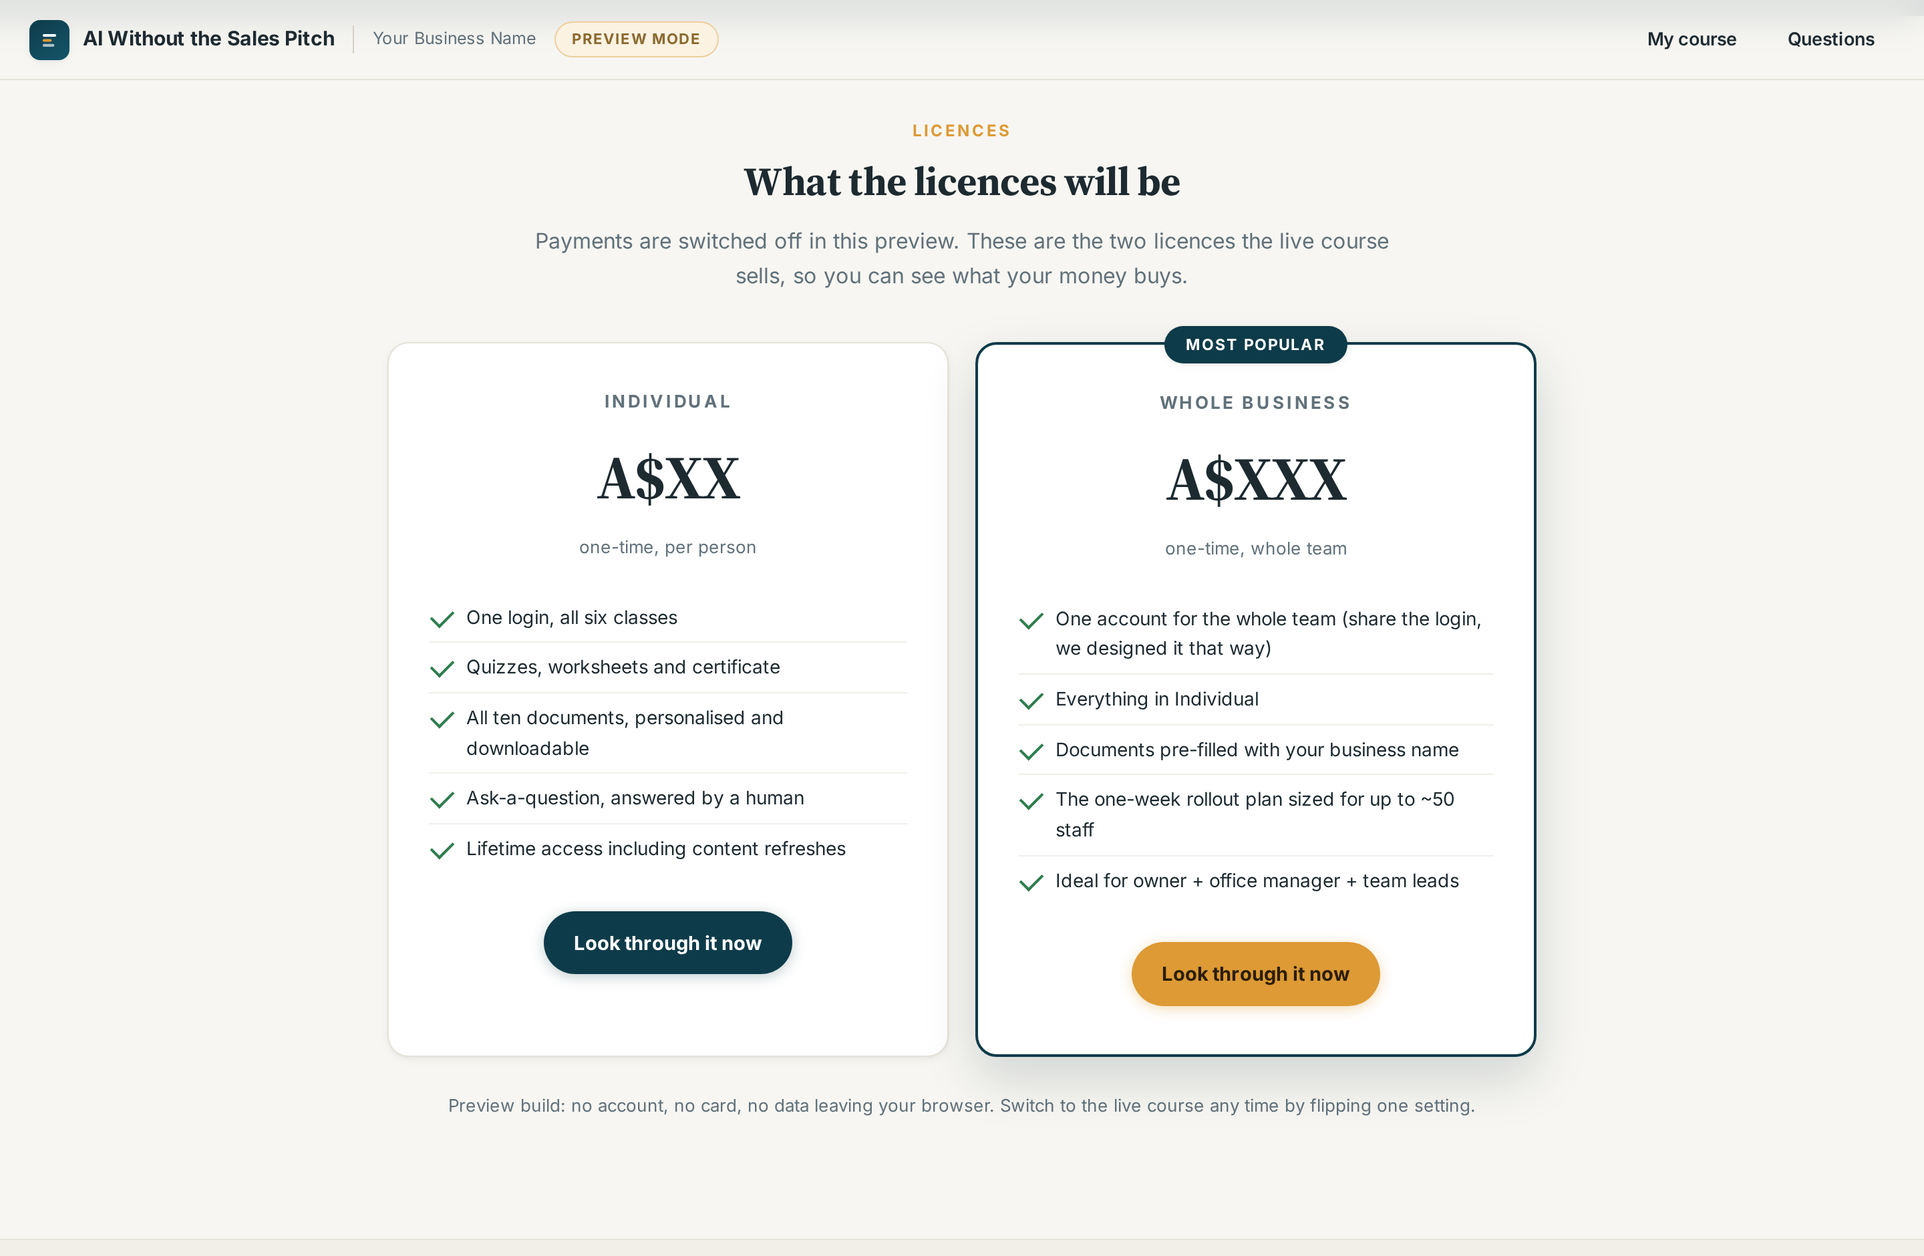
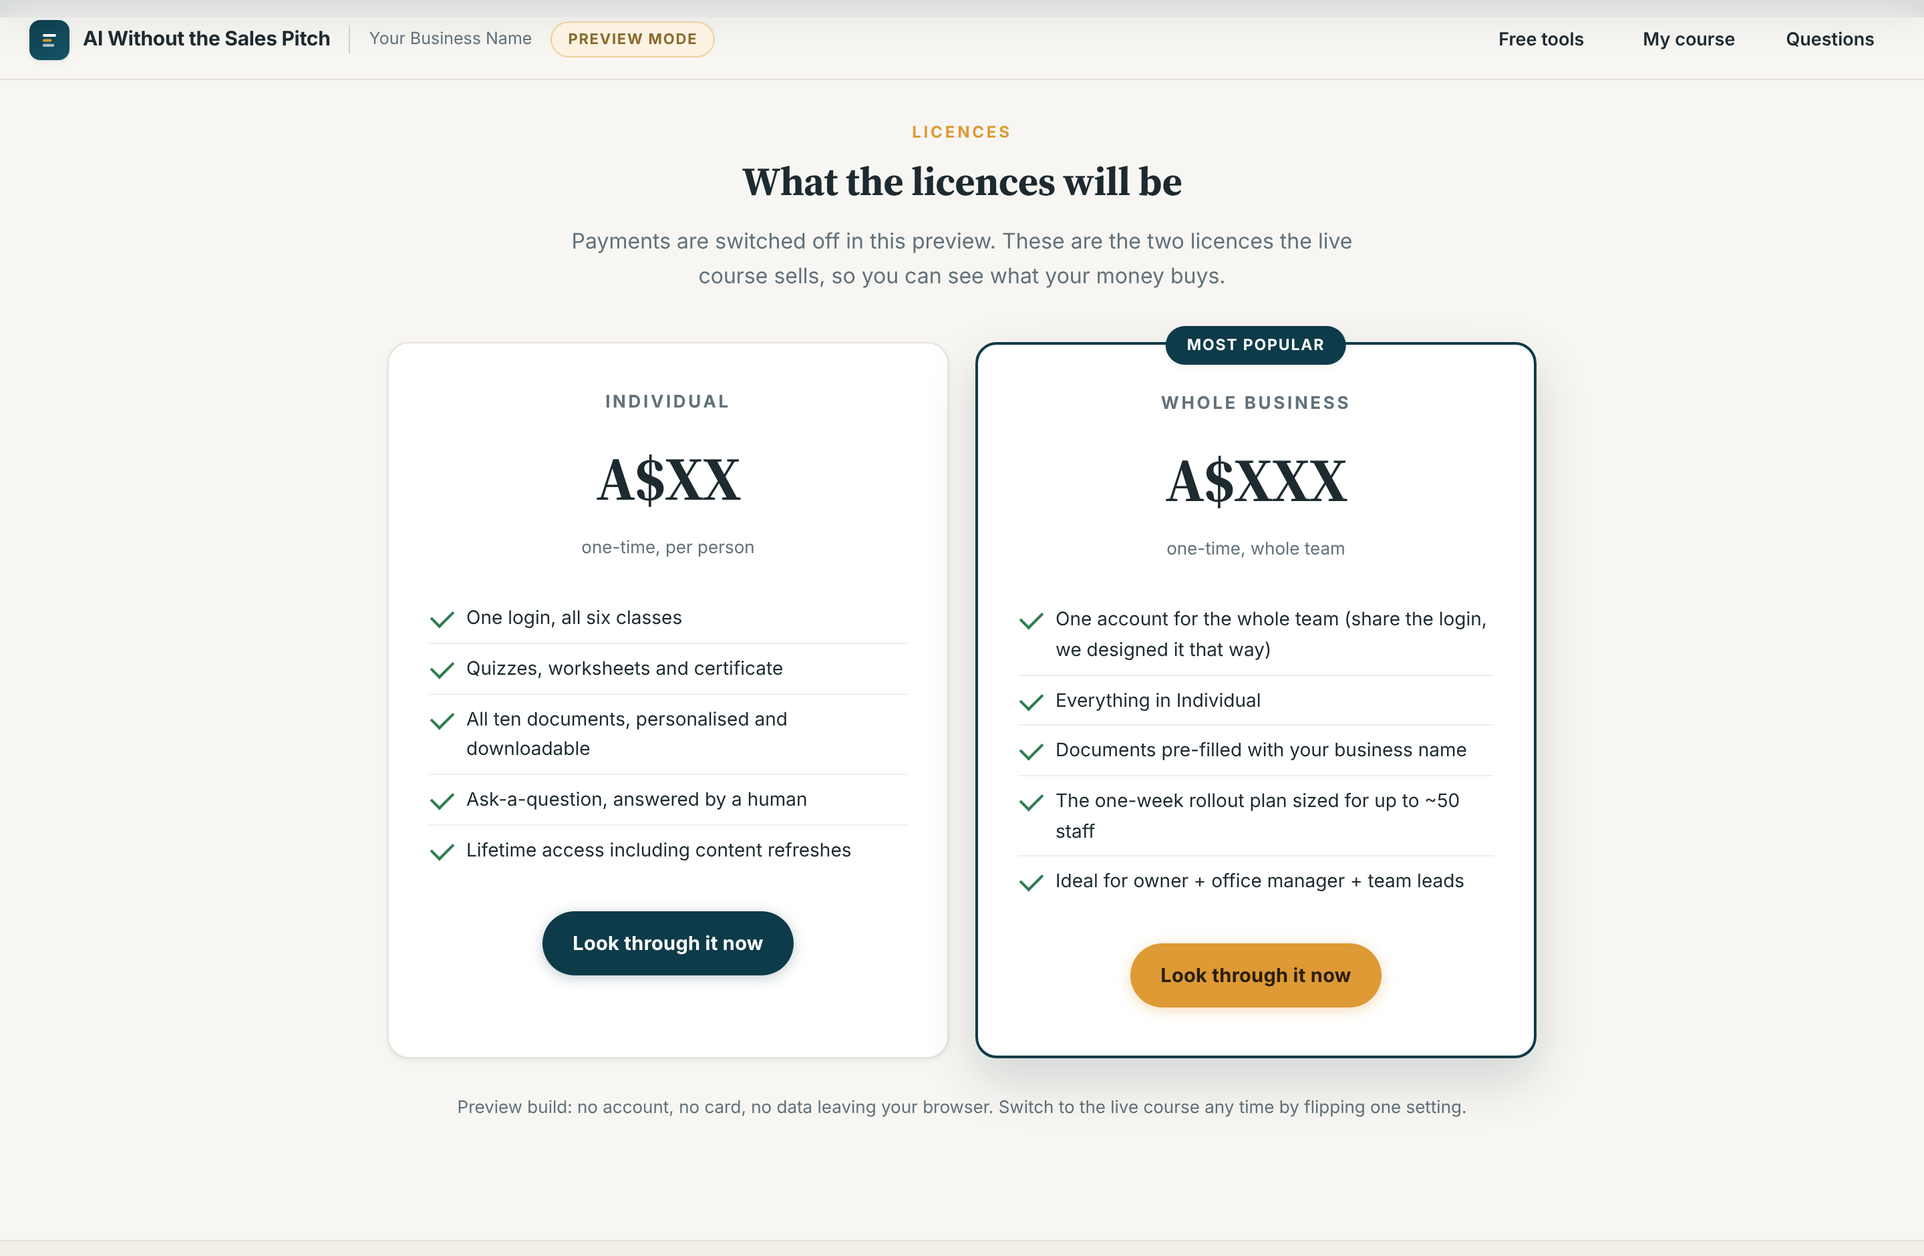
Tools: write-once job keys, docs, previews
- Job status no longer depends on a Blobs update showing up: the runner
  writes tools/jobs/<id>/start and tools/jobs/<id>/result once each, so
  polling sees "done" as soon as it happens (Blobs can take up to 60s to
  propagate an update, but new keys are visible immediately).
- Follower Sorter only links to instagram.com URLs from the export file.
- DEPLOY.md: new section 11 on the Tools section (Netlify Pro for
  background functions, ANTHROPIC_API_KEY, CLAUDE_MODEL, the caps and kill
  switch, costs, what is stored, how to add a tool), updated test steps
  and file map, and the running-cost note corrected.
- README: the Tools section replaces the Bee Free Tools site and the
  Replit BeeSearch app; test and screenshot instructions updated.
- screenshots.cjs adds the tools gallery, Blog Writer and Website Check;
  all previews regenerated.

Claude-Session: https://claude.ai/code/session_01S917DKUpFNSutKc3aFgBkW

diff --git a/course-site/netlify/functions/tool-run-background.js b/course-site/netlify/functions/tool-run-background.js
@@ -1,8 +1,12 @@
 // tool-run-background.js — runs one AI tool job. The "-background" suffix
 // makes Netlify answer the browser with 202 straight away and give this
 // function up to 15 minutes, so long generations never hit the 30-second
-// limit. Progress and the result go to Blobs at tools/jobs/<jobId>, which
-// the browser polls through tool-status.
+// limit. The browser polls tool-status for the outcome.
+//
+// Each job writes two keys, each exactly once: tools/jobs/<id>/start when
+// it begins and tools/jobs/<id>/result when it ends. Blobs makes new keys
+// visible immediately but can take up to 60 seconds to show an update, so
+// never rewriting a key keeps polling prompt.
 //
 // POST { jobId: <uuid v4 from the browser>, tool: "blog-writer" | "shot-prompts" | "leads" | "pitch", input: {...} }
 import { store, parseBody } from "./utils/helpers.js";
@@ -11,7 +15,7 @@ import { validateWith } from "./utils/ai/validate.js";
 import { aiEnabled, claimRun, releaseRun, visitorId, pruneUsage } from "./utils/limits.js";
 import { aiConfigured, friendlyError } from "./utils/claude.js";
 
-const UUID_RE =/^[0-9a-f]{8}-[0-9a-f]{4}-4[0-9a-f]{3}-[89ab][0-9a-f]{3}-[0-9a-f]{12}$/i;
+const UUID_RE = /^[0-9a-f]{8}-[0-9a-f]{4}-4[0-9a-f]{3}-[89ab][0-9a-f]{3}-[0-9a-f]{12}$/i;
 const MAX_BODY = 240 * 1024; // background functions take small payloads only
 
 export const handler = async (event) => {
@@ -21,14 +25,15 @@ export const handler = async (event) => {
   if (typeof body.jobId !== "string" || !UUID_RE.test(body.jobId)) return; // nowhere to report
 
   const s = store(event);
-  const key = `tools/jobs/${body.jobId}`;
+  const prefix = `tools/jobs/${body.jobId}/`;
   const startedAt = Date.now();
   const tool = typeof body.tool === "string" ? body.tool : "";
 
   // onlyIfNew: a repeated submit of the same job is ignored rather than run twice.
-  const created = await s.setJSON(key, { status: "running", tool, startedAt }, { onlyIfNew: true });
+  const created = await s.setJSON(prefix + "start", { tool, startedAt }, { onlyIfNew: true });
   if (!created.modified) return;
-  const finish = (data) => s.setJSON(key, Object.assign({ tool, startedAt, finishedAt: Date.now() }, data));
+  const finish = (data) =>
+    s.setJSON(prefix + "result", Object.assign({ tool, startedAt, finishedAt: Date.now() }, data), { onlyIfNew: true });
 
   const mod = Object.prototype.hasOwnProperty.call(AI_TOOLS, tool) ? AI_TOOLS[tool] : null;
   if (!mod) return finish({ status: "error", code: "unknown_tool", error: "Unknown tool." });

diff --git a/course-site/netlify/functions/tool-status.js b/course-site/netlify/functions/tool-status.js
@@ -2,6 +2,7 @@
 // GET ?id=<jobId> -> { status: "pending" | "running" | "done" | "error", result?, error? }
 // "pending" means the background function hasn't started yet. A finished
 // job is deleted once it has been read, so generated content isn't kept.
+// Key layout: see tool-run-background.js.
 import { store, json, fail } from "./utils/helpers.js";
 
 const UUID_RE = /^[0-9a-f]{8}-[0-9a-f]{4}-4[0-9a-f]{3}-[89ab][0-9a-f]{3}-[0-9a-f]{12}$/i;
@@ -12,11 +13,14 @@ export const handler = async (event) => {
   if (!UUID_RE.test(id)) return fail("bad job id");
 
   const s = store(event);
-  const key = `tools/jobs/${id}`;
-  const job = await s.get(key, { type: "json" });
-  if (!job) return json({ status: "pending" });
+  const prefix = `tools/jobs/${id}/`;
+  const job = await s.get(prefix + "result", { type: "json" });
+  if (!job) {
+    const started = await s.get(prefix + "start", { type: "json" });
+    return json({ status: started ? "running" : "pending", tool: started ? started.tool : undefined });
+  }
 
-  if (job.status === "done" || job.status === "error") await s.delete(key);
+  await Promise.all([s.delete(prefix + "result"), s.delete(prefix + "start")]);
   const out = { status: job.status, tool: job.tool };
   if (job.status === "done") out.result = job.result;
   if (job.status === "error") Object.assign(out, { code: job.code || "failed", error: job.error || "Something went wrong." });

diff --git a/course-site/assets/js/tools/follower-sorter.js b/course-site/assets/js/tools/follower-sorter.js
@@ -33,7 +33,8 @@
       }
       const d = Array.isArray(e.string_list_data) ? e.string_list_data[0] : null;
       if (!d) { skipped++; return; }
-      const href = typeof d.href === "string" ? d.href : "";
+      // Only link to Instagram itself; the file is the visitor's, but stay safe.
+      const href = typeof d.href === "string" && /^https:\/\/(www\.)?instagram\.com\//i.test(d.href) ? d.href : "";
       const fromHref = href.replace(/\/+$/, "").split("/").pop() || "";
       const username = String(d.value || e.title || fromHref || "").trim();
       if (!username) { skipped++; return; }

diff --git a/course-site/DEPLOY.md b/course-site/DEPLOY.md
@@ -1,6 +1,6 @@
 # DEPLOY.md — Launch guide for "AI Without the Sales Pitch" (self-paced edition)
 
-Everything runs on Netlify's own building blocks: static hosting, **Identity** (registration/sign-in), **Functions** (the small API), **Blobs** (storage for codes, progress and Q&A) and **Forms** (the email leg of the question feature). No other services except Stripe. Expected running cost at small-business scale: **$0/month** on Netlify's free plan plus Stripe's per-transaction fees.
+Everything runs on Netlify's own building blocks: static hosting, **Identity** (registration/sign-in), **Functions** (the small API), **Blobs** (storage for codes, progress, Q&A and tool jobs) and **Forms** (the email leg of the question feature). The only other services are Stripe (payments) and Anthropic (the three AI tools). Expected running cost at small-business scale: Netlify Pro (needed for the AI tools' background functions), Stripe's per-transaction fees, and Anthropic usage, which the daily caps keep to a few dollars a day at most (see section 11).
 
 ---
 
@@ -67,8 +67,11 @@ Site configuration → Environment variables:
 | `STRIPE_PRICE_INDIVIDUAL` | the Individual **price ID** (`price_...`) from the product page — comma-separate several if you re-price later |
 | `STRIPE_PRICE_BUSINESS` | the Business **price ID** (`price_...`) |
 | `ADMIN_TOKEN` | a long random string you invent (e.g. output of `openssl rand -hex 24`). This protects `/admin.html`. |
+| `ANTHROPIC_API_KEY` | your Anthropic API key, for the three AI tools. Without it those tools show a "not switched on yet" note plus an example output; everything else works. |
 
-Optional: `STRIPE_BUSINESS_MIN_AMOUNT` — fallback tier detection in cents (default `10000` = $100) if a price ID is ever misconfigured; a paid session at or above that amount issues a business code.
+Optional: `STRIPE_BUSINESS_MIN_AMOUNT` — fallback tier detection in cents (default `10000` = $100) if a price ID is ever misconfigured; a paid session at or above that amount issues a business code. The tools have their own optional variables, listed in section 11.
+
+Give each variable the **Functions** scope (or "All scopes"). The functions read them at run time, so a change takes effect on the next deploy.
 
 Redeploy after setting these. Then paste the two Payment Link URLs into `config.js` (`stripe.individualLink`, `stripe.businessLink`).
 
@@ -90,8 +93,11 @@ Visit `https://YOUR-SITE/admin.html`, enter your `ADMIN_TOKEN`. You'll see every
 2. Ask a question as the test learner; answer it in `/admin.html`; confirm it appears in the learner session.
 3. Fill the profile (business name), download Document 3, confirm the templates come out with the business name pre-filled.
 4. Pass all six quizzes on a test account and print the certificate.
-5. Local preview of the UI only: `python3 -m http.server` in this folder (functions won't run locally without `netlify dev`; for full local testing: `npm i -g netlify-cli && netlify login && netlify link && netlify dev`).
-6. Automated smoke test: `npm install --no-save jsdom && node tools/smoke_test.cjs` (18 checks across landing, lessons, quizzes, worksheets, personalisation, Q&A, certificate, profile).
+5. Local preview of the UI only: `python3 -m http.server` in this folder (functions won't run locally without `netlify dev`; for full local testing: `npm i -g netlify-cli && netlify login && netlify link && netlify dev`). Without functions, the AI tools fall back to their example output and Website Check to its paste-the-HTML mode.
+6. Automated tests, run from this folder after `npm install && npm install --no-save jsdom`:
+   - `node tools/smoke_test.cjs`: the real `index.html` and scripts in jsdom (landing, lessons, quizzes, worksheets, personalisation, Q&A, certificate, profile, and every tool page including the AI job flow with a stubbed backend).
+   - `node tools/test_tools.mjs`: the Netlify functions run against a local Netlify Blobs server (sign-in, progress, Q&A, codes, the tool job runner with a stubbed Claude client, the spend caps, the safe fetcher) plus the tools' pure logic (robots.txt rules, structured-data scoring, Instagram export parsing, cost maths).
+7. Tools, after deploying with `ANTHROPIC_API_KEY` set: run each AI tool once (Blog Writer, Product-Shot Prompt Builder with and without a photo, BeeSearch Leads, then "Write a pitch" on a saved lead), run Website Check on your own site, and confirm in the Netlify dashboard (Blobs, store `course`) that `tools/usage/...` keys appear. Then set `TOOLS_PER_VISITOR_DAILY=1`, redeploy, and confirm your second run is politely refused.
 
 ## 9. Updating content later
 
@@ -108,8 +114,42 @@ That regenerates `assets/js/content.js`. Redeploy. Quizzes and worksheets are ha
 - **Netlify Identity free tier** covers ~50k monthly active users; you'll hit the paid tier long after this course is a success story.
 - **Forms allowance** 100/month free: at $ per question that's a healthy course; upgrade path is Netlify Pro or an email API inside `qa.js`.
 - **Shared business-tier login** is by design (per your tier choice). Progress is per-account, so a shared login shares progress; that's accepted for team licences. If you later want per-person seats inside a business, the blob layout (`users/{id}`, `progress/{id}`) extends to an `orgId` cleanly.
-- **Blobs** have no expiry; storage of codes/progress/Q&A at this scale is negligible.
+- **Blobs** have no expiry; storage of codes/progress/Q&A at this scale is negligible. Tool jobs are deleted as soon as the result is collected, and usage counters older than a week are pruned automatically.
 - **No community, by design.** Q&A is one-to-one between you and each learner, as specced.
+
+## 11. The Tools section (public add-ons)
+
+Six small tools sit at `#/tools`, open to everyone with no account. Each one links to the class or document it goes with, and those class and document pages link back with a "Try it with a free tool" box. Learners see them inside the course layout; visitors see a public page with a link to the course.
+
+| Tool | Runs on | Cost per use |
+|---|---|---|
+| Blog Writer | Claude (background job) | about 5 to 10 cents on Claude Opus 5.5 |
+| Product-Shot Prompt Builder | Claude (background job), optional photo shrunk in the browser | about 2 cents |
+| BeeSearch Leads, plus "Write a pitch" | Claude with Anthropic's built-in web search | about 15 to 30 cents a search (search results are long, and each web search is billed on top); pitches about 2 cents |
+| Website Check | the `site-check` function, no AI | nothing |
+| Instagram Follower Sorter | the visitor's browser only | nothing |
+| AI Cost Check | the visitor's browser only | nothing |
+
+Costs are estimates; check Anthropic's pricing page for current rates.
+
+**Needs Netlify Pro.** The AI tools run as background functions (`tool-run-background`), which Netlify offers on Pro and above. They get up to 15 minutes, so a long post or a web search never hits the normal 30-second function limit. The browser starts the job, then checks `tool-status` every few seconds and shows the result when it's ready.
+
+**Spend guard.** No login is needed, so every AI run counts against two daily caps (reset at midnight Sydney time), stored in Blobs:
+
+| Variable | Default | What it does |
+|---|---|---|
+| `TOOLS_DAILY_LIMIT` | `30` | AI runs per day across the whole site |
+| `TOOLS_PER_VISITOR_DAILY` | `5` | AI runs per day per visitor (a salted hash of their IP; no raw IP is stored) |
+| `TOOLS_AI_ENABLED` | `true` | set to `false` to pause all AI tools instantly (after a redeploy) |
+| `CLAUDE_MODEL` | `claude-opus-5-5` | the Claude model. `claude-haiku-5-5` is much cheaper and faster, at some cost in writing quality. |
+
+Failed runs aren't counted. When a cap is hit or the AI is paused, the tool shows a friendly note plus its built-in example, so the showcase still works. At the default caps the worst case is about $5 a day on Opus 5.5. As a second safety net, set a monthly spend limit for the API key in the Anthropic Console.
+
+**What's stored.** The job (input and result) sits in Blobs only until the browser collects it, then it's deleted. The usage counters hold a timestamp and nothing else. The Leads shortlist, notes and pitches live only in the visitor's own browser. Inputs are sent to Anthropic to generate the result.
+
+**Refusals.** On Opus 5.5 the tools ask Anthropic to re-run a request on a fallback model if Claude declines it (the API's server-side fallback, `fallbacks: "default"`). If everything declines, the visitor sees a plain message asking them to reword.
+
+**Adding a tool.** Write `assets/js/tools/<name>.js` that calls `COURSE_TOOLS.register({ slug, title, kind, blurb, related, render, bind })` (copy `ai-cost.js` for a browser-only tool, or `blog-writer.js` for an AI one), add its `<script>` tag to `index.html`, and for an AI tool add a module to `netlify/functions/utils/ai/` with `validate()` and `run()` and list it in `utils/ai/index.js`. The `related` slugs are the content slugs from `assets/js/content.js` (e.g. `class-4-talking-to-the-software`).
 
 ## File map
 
@@ -125,6 +165,15 @@ course-site/
 ├── assets/js/md.js             # markdown renderer
 ├── assets/js/quizzes.js        # 6 quizzes + 6 worksheets (hand-edited)
 ├── assets/js/content.js        # GENERATED from content-src — don't edit
+├── assets/js/tools/
+│   ├── registry.js             # shared tool plumbing (job runner, helpers)
+│   ├── blog-writer.js          # one file per tool ...
+│   ├── shot-prompts.js
+│   ├── leads.js
+│   ├── site-audit.js           # Website Check logic (schema + robots.txt)
+│   ├── website-check.js
+│   ├── follower-sorter.js
+│   └── ai-cost.js
 ├── content-src/*.md            # the course text (edit here, rebuild)
 ├── netlify/functions/
 │   ├── issue-code.js           # Stripe success → access code
@@ -133,8 +182,18 @@ course-site/
 │   ├── progress.js             # lessons/quizzes/worksheets per learner
 │   ├── qa.js                   # learner questions + replies store
 │   ├── admin-qa.js             # your inbox API (ADMIN_TOKEN)
-│   └── utils/helpers.js        # blobs, identity, JSON helpers
+│   ├── tool-run-background.js  # runs one AI tool job (background, 15 min)
+│   ├── tool-status.js          # the browser polls this for the result
+│   ├── site-check.js           # fetches a page + robots.txt for Website Check
+│   └── utils/
+│       ├── helpers.js          # blobs, identity, JSON helpers
+│       ├── claude.js           # model, effort, refusal fallback, errors
+│       ├── limits.js           # daily caps + kill switch
+│       ├── safe-fetch.js       # public-internet-only page fetcher
+│       └── ai/                 # one module per AI tool (prompt + schema)
 └── tools/
     ├── build_content.py        # markdown → content.js
-    └── smoke_test.cjs          # 18-check UI test
+    ├── smoke_test.cjs          # UI test in jsdom
+    ├── test_tools.mjs          # functions + tool logic tests
+    └── screenshots.cjs         # regenerates previews/
 ```

diff --git a/README.md b/README.md
@@ -8,15 +8,16 @@ Content and software for **AI Without the Sales Pitch**, a plain-language AI edu
 |---|---|
 | `ai-without-the-sales-pitch/` | The written content package: series overview, six learner-facing class chapters (outcomes, plain-language teaching, myth section, solo exercise, word list), the ten ready-to-use SMB documents, facilitator notes, registration blurbs, and research notes with sources. |
 | `course-site/` | The sellable self-paced web course: static HTML + vanilla JS single-page app for Netlify (Identity for accounts, Functions + Blobs for codes/progress/Q&A, Forms for question emails), Stripe checkout with access codes, quizzes, worksheets, personalised document downloads, printable certificate, and a token-protected admin Q&A inbox. |
-| `course-site/previews/` | Ten screenshots of the course UI, rendered from the real code by `course-site/tools/screenshots.cjs`. |
+| `course-site/` Tools section | Six free, public add-on tools at `#/tools`, each tied to the class or document it puts into practice: Blog Writer, Product-Shot Prompt Builder and BeeSearch Leads (Claude, run as Netlify background jobs behind daily spend caps), plus Website Check, Instagram Follower Sorter and AI Cost Check (no AI). These replace the separate Bee Free Tools site and the Replit-hosted BeeSearch app. See section 11 of `course-site/DEPLOY.md`. |
+| `course-site/previews/` | Screenshots of the course UI and tools, rendered from the real code by `course-site/tools/screenshots.cjs`. |
 
 ## Quick start
 
 - **Read the content:** start at `ai-without-the-sales-pitch/README.md`.
 - **Run or deploy the course:** follow `course-site/DEPLOY.md` (branding, Stripe, Netlify Identity, environment variables, admin inbox).
 - **Edit course text:** change `course-site/content-src/*.md`, then `python3 course-site/tools/build_content.py`.
-- **Test the UI:** `cd course-site && npm install --no-save jsdom && node tools/smoke_test.cjs`.
-- **Regenerate screenshots:** `cd course-site && npm install --no-save playwright && npx playwright install chromium && node tools/screenshots.cjs`.
+- **Test:** `cd course-site && npm install && npm install --no-save jsdom && node tools/smoke_test.cjs && node tools/test_tools.mjs` (UI in jsdom, then the functions against a local Netlify Blobs server and the tools' logic).
+- **Regenerate screenshots:** `cd course-site && npm install --no-save playwright && npx playwright install chromium`, start a local server with `python3 -m http.server 8137`, then `node tools/screenshots.cjs`.
 
 ## Status of time-sensitive material
 
